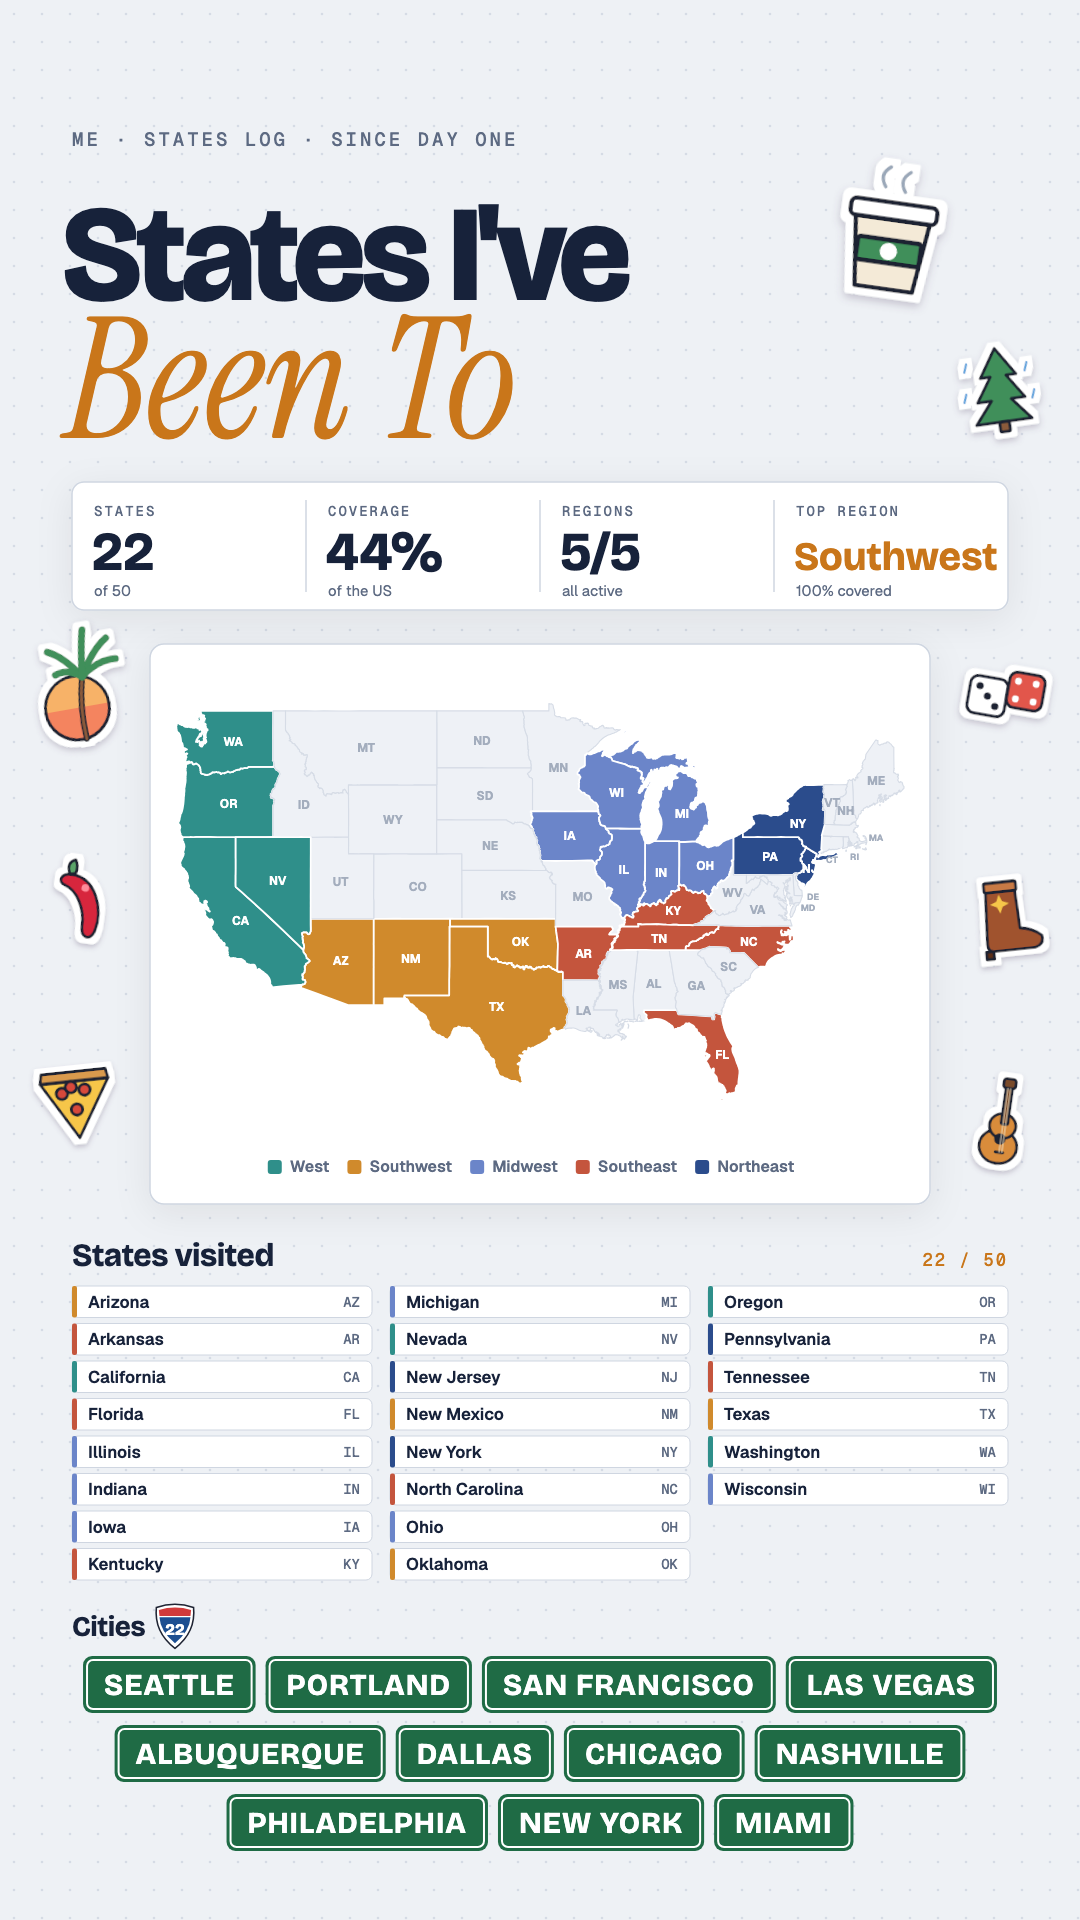
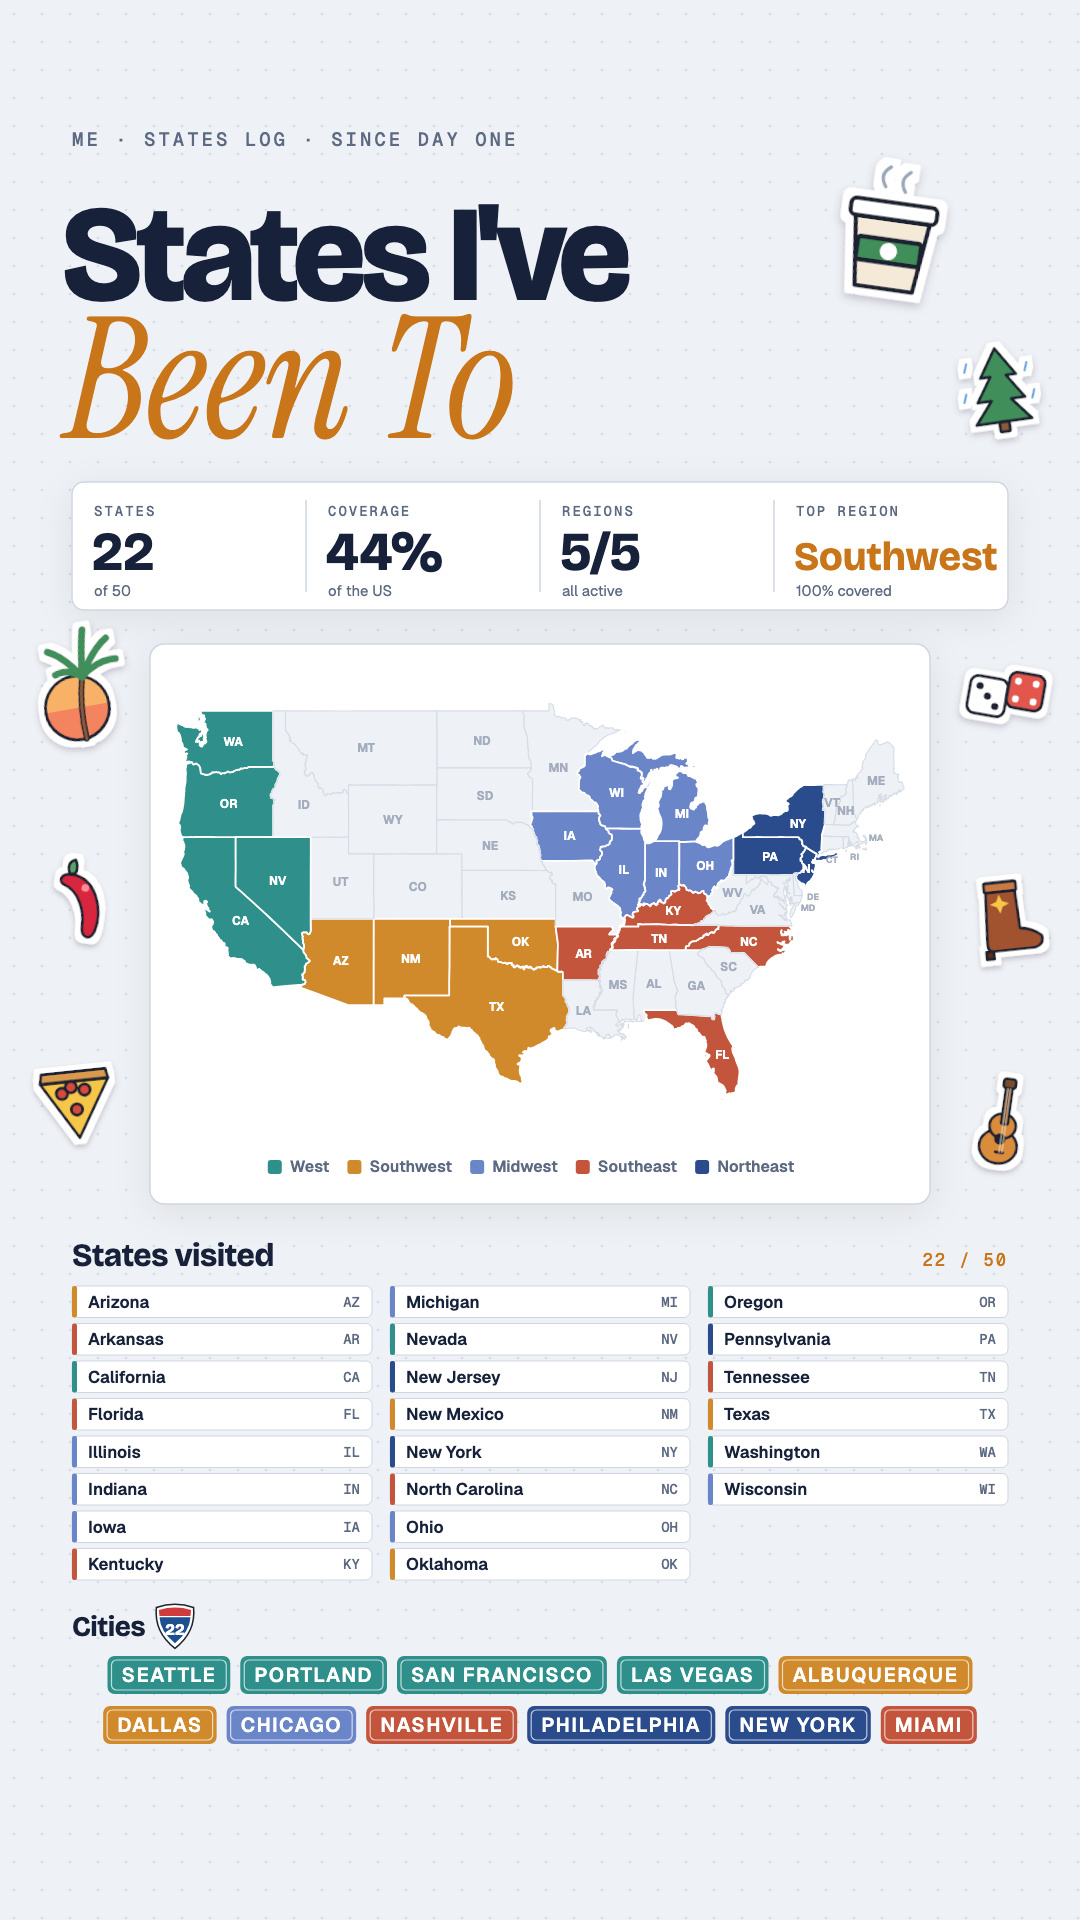
City signs: smaller Geist labels colored by each state's region

Changed region(s): [[0.0611, 0.8438, 0.9167, 0.9688]]

diff --git a/generator/index.html b/generator/index.html
@@ -1511,15 +1511,15 @@ function card(x,y,w,h,P2,r=14){return svg.append("rect").attr("x",x).attr("y",y)
 function dotBg(c1,c2){bg(c1);const dp=defs.append("pattern").attr("id","dg"+uid).attr("width",28).attr("height",28).attr("patternUnits","userSpaceOnUse");dp.append("circle").attr("cx",14).attr("cy",14).attr("r",1.3).attr("fill",c2);svg.append("rect").attr("width",1080).attr("height",1920).attr("fill",`url(#dg${uid++})`).attr("opacity",.8);}
 const hex7=n=>((hash=>{let h=7;for(const ch of n)h=(h*31+ch.charCodeAt(0))>>>0;return h;})()).toString(16).padStart(8,"0").slice(0,7);
 function highwaySigns(g,cities,x0,y0,w,o={}){if(!cities.length)return y0;const GRN=o.green||"#1f6b45",gap=10,maxR=o.maxRows||3;
- const meas=svg.append("text").attr("font-family",DISP).attr("font-weight",700).attr("letter-spacing",1).attr("opacity",0);
- let fs=30,rows;for(fs of [30,26,22,19,16,14]){const H=fs*1.9;meas.attr("font-size",fs);const items=cities.map(c=>{meas.text(c.toUpperCase());return [c.toUpperCase(),meas.node().getComputedTextLength()+fs*1.4];});
+ const meas=svg.append("text").attr("font-family",PLEX).attr("font-weight",600).attr("letter-spacing",1.5).attr("opacity",0);
+ let fs=20,rows;for(fs of [20,18,16,14,13,12]){const H=fs*1.9;meas.attr("font-size",fs);const items=cities.map(c=>{meas.text(c.toUpperCase());return [c.toUpperCase(),meas.node().getComputedTextLength()+fs*1.4];});
   rows=[];let row=[],rw=0;items.forEach(it=>{if(rw+it[1]>w&&row.length){rows.push([row,rw-gap]);row=[];rw=0;}row.push(it);rw+=it[1]+gap;});rows.push([row,rw-gap]);
   if(rows.length*(H+12)<=maxR*70||fs===14)break;}
  meas.remove();const H=fs*1.9;
  rows.forEach(([r,rwid],ri)=>{let x=x0+(w-rwid)/2;const y=y0+ri*(H+12);r.forEach(([lab,wd])=>{
-  g.append("rect").attr("x",x).attr("y",y).attr("width",wd).attr("height",H).attr("rx",fs*.3).attr("fill",GRN);
-  g.append("rect").attr("x",x+4).attr("y",y+4).attr("width",wd-8).attr("height",H-8).attr("rx",fs*.2).attr("fill","none").attr("stroke","#ffffff").attr("stroke-width",2);
-  T(g,x+wd/2,y+H/2+fs*.36,lab,{f:DISP,w:700,s:fs,ls:1,c:"#ffffff",a:"middle"});x+=wd+gap;});});
+  const col=o.colorFn?o.colorFn(lab):GRN;g.append("rect").attr("x",x).attr("y",y).attr("width",wd).attr("height",H).attr("rx",fs*.35).attr("fill",col);
+  g.append("rect").attr("x",x+4).attr("y",y+4).attr("width",wd-8).attr("height",H-8).attr("rx",fs*.25).attr("fill","none").attr("stroke","#ffffff").attr("stroke-opacity",.7).attr("stroke-width",1.2);
+  T(g,x+wd/2,y+H/2+fs*.36,lab,{f:PLEX,w:600,s:fs,ls:1.5,c:"#ffffff",a:"middle"});x+=wd+gap;});});
  return y0+rows.length*(H+12);}
 function shield(g,x,y,num,s=1,c1="#1d4f91",c2="#d23b3b"){const k=g.append("g").attr("transform",`translate(${x},${y}) scale(${s})`);
  k.append("path").attr("d","M-30,-30 Q0,-40 30,-30 Q34,10 0,36 Q-34,10 -30,-30Z").attr("fill","#ffffff").attr("stroke","#1f2433").attr("stroke-width",2.5);
@@ -1560,7 +1560,7 @@ function stickerAtlas(P){const ST=STATS(),R=P.R||MOD.R,F=stickerFilter(5);
   const slots=[[890,240,1.45,8],[1000,390,1.0,-8],[76,700,1.0,-10],[1004,700,1.0,10],[76,900,.95,8],[1004,920,.95,-6],[76,1100,.95,-6],[1004,1130,.95,8]];
   stickerLayer(m,slots,F,.5);return;}
  const hy=ly+64+per*th;{const ct=T(svg,72,hy+6,"Cities",{f:DISP,w:700,s:28,ls:-.5,c:P.ink});shield(svg,72+ct.node().getComputedTextLength()+30,hy-4,N,.62);}
- highwaySigns(svg,CONFIG.cities,72,hy+26,936,{maxRows:Math.max(1,Math.min(3,Math.floor((1880-hy-26)/70)))});
+ highwaySigns(svg,CONFIG.cities,72,hy+26,936,{colorFn:lab=>{const DBc=window.CITY_DB||{};for(const st in DBc)if(DBc[st].some(([n])=>n.toUpperCase()===lab))return (P.R||MOD.R)[REG(st)];return P.amber;},maxRows:Math.max(1,Math.min(3,Math.floor((1880-hy-26)/70)))});
  // stickers around the map + top-right corner
  const slots=[[890,240,1.45,8],[1000,390,1.0,-8],[76,700,1.0,-10],[1004,700,1.0,10],[76,900,.95,8],[1004,920,.95,-6],[76,1100,.95,-6],[1004,1130,.95,8]];
  stickerLayer(m,slots,F,.5);
